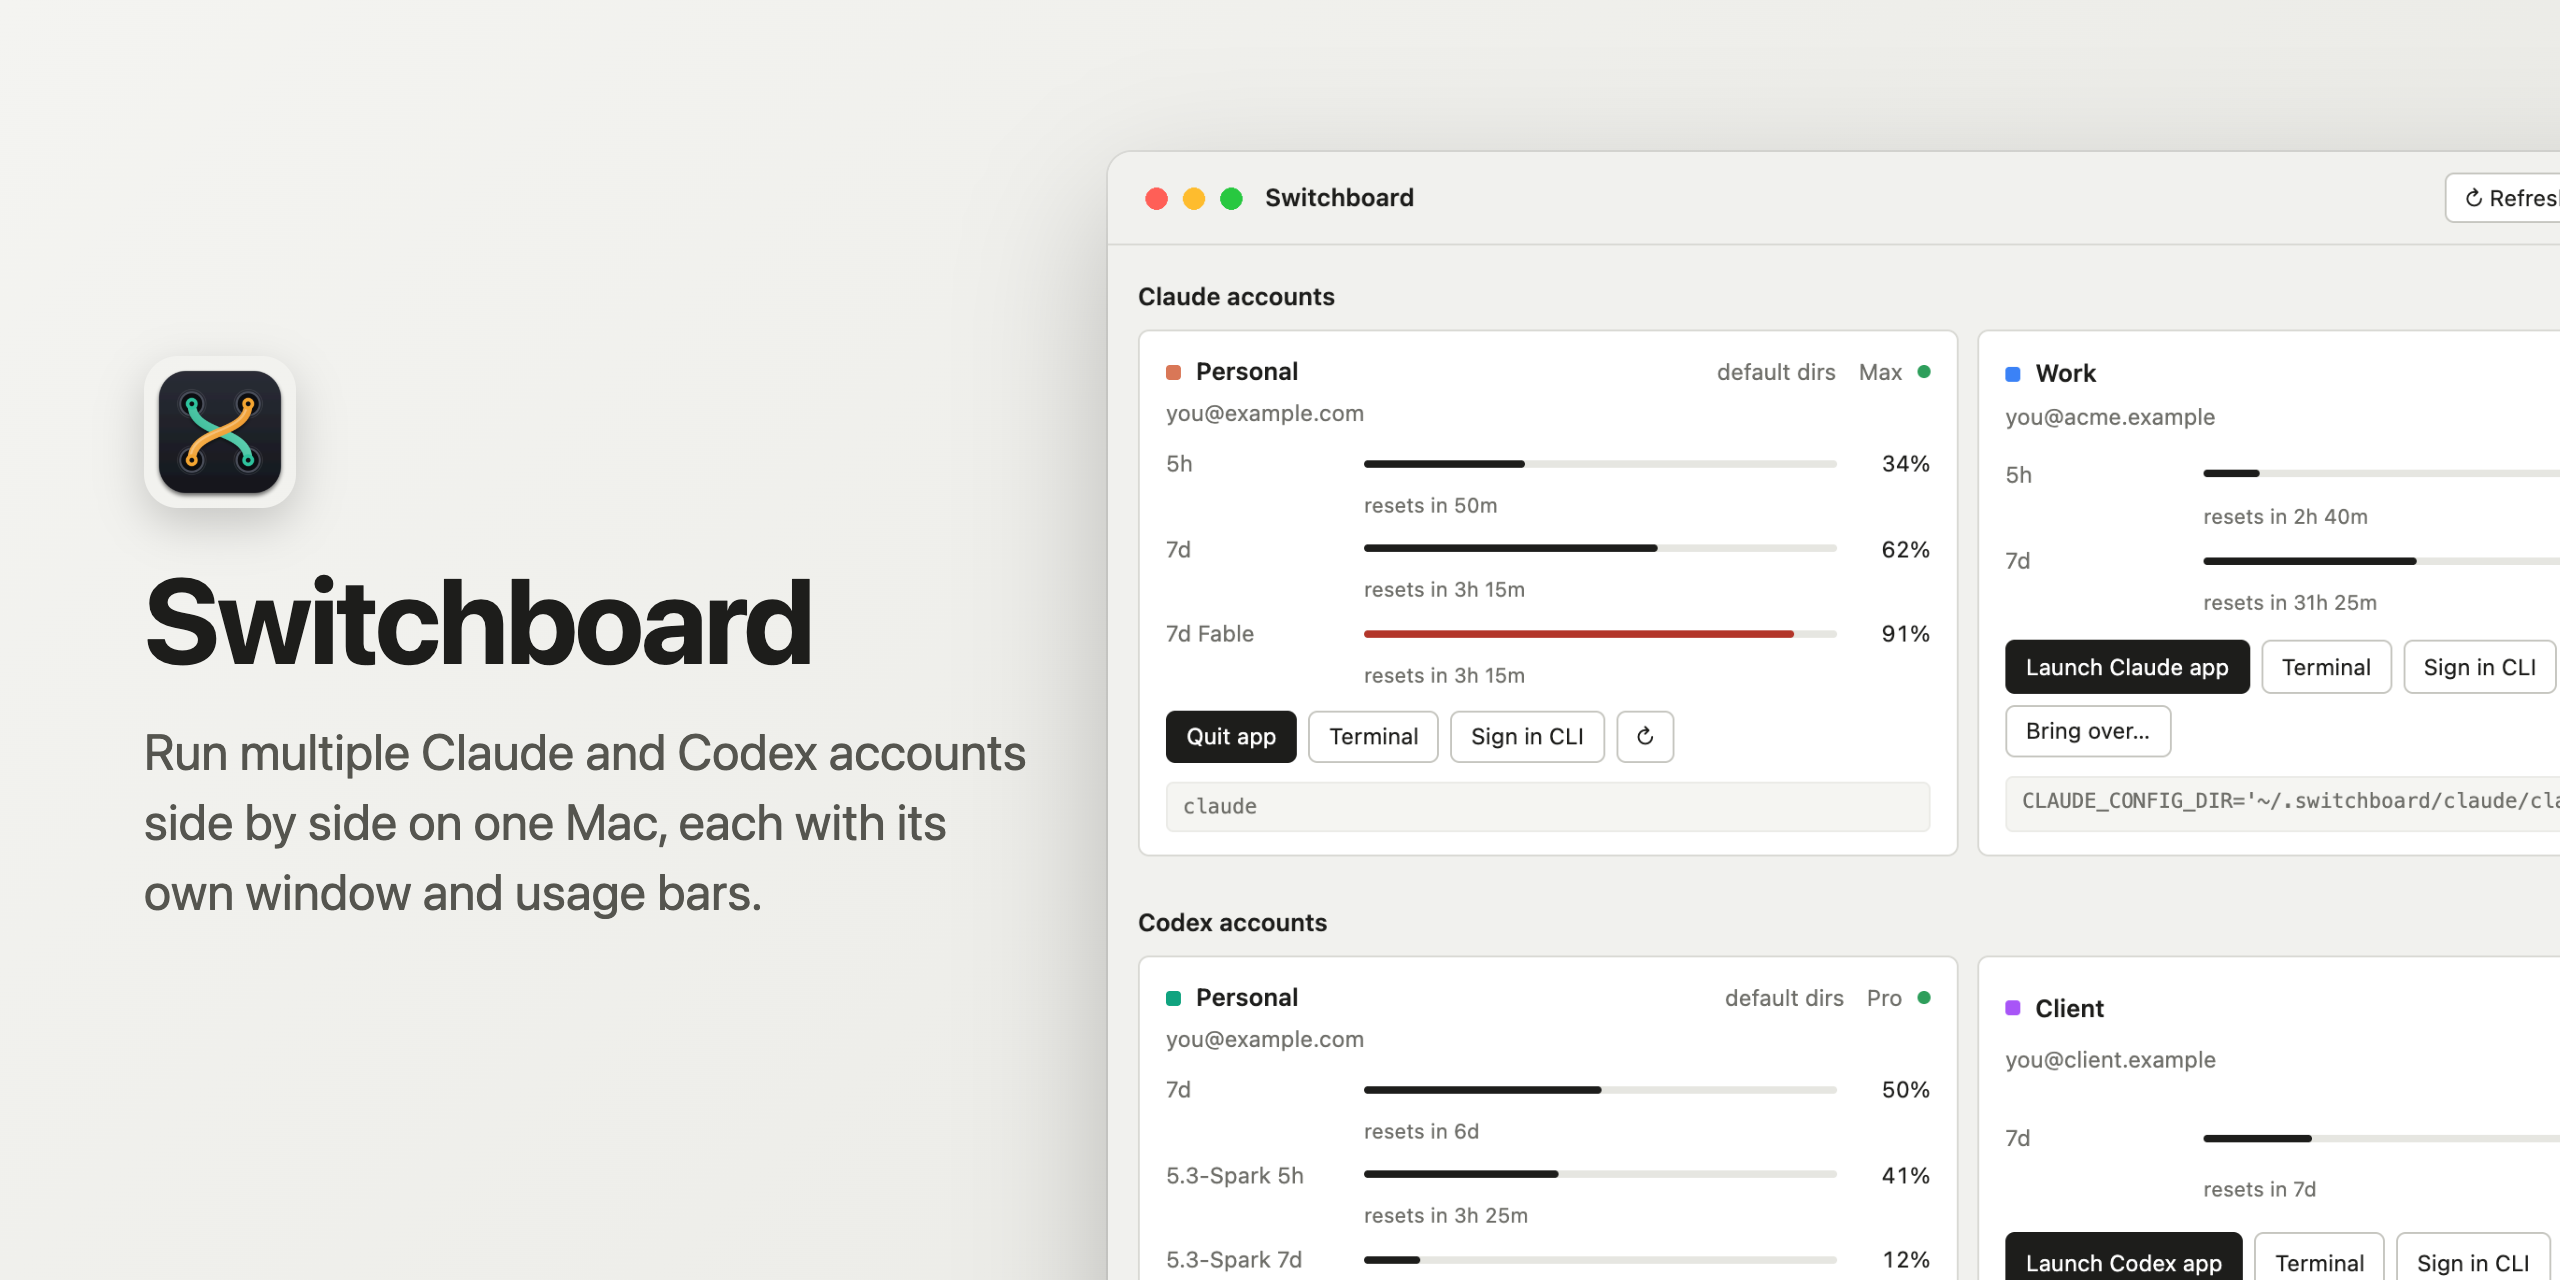
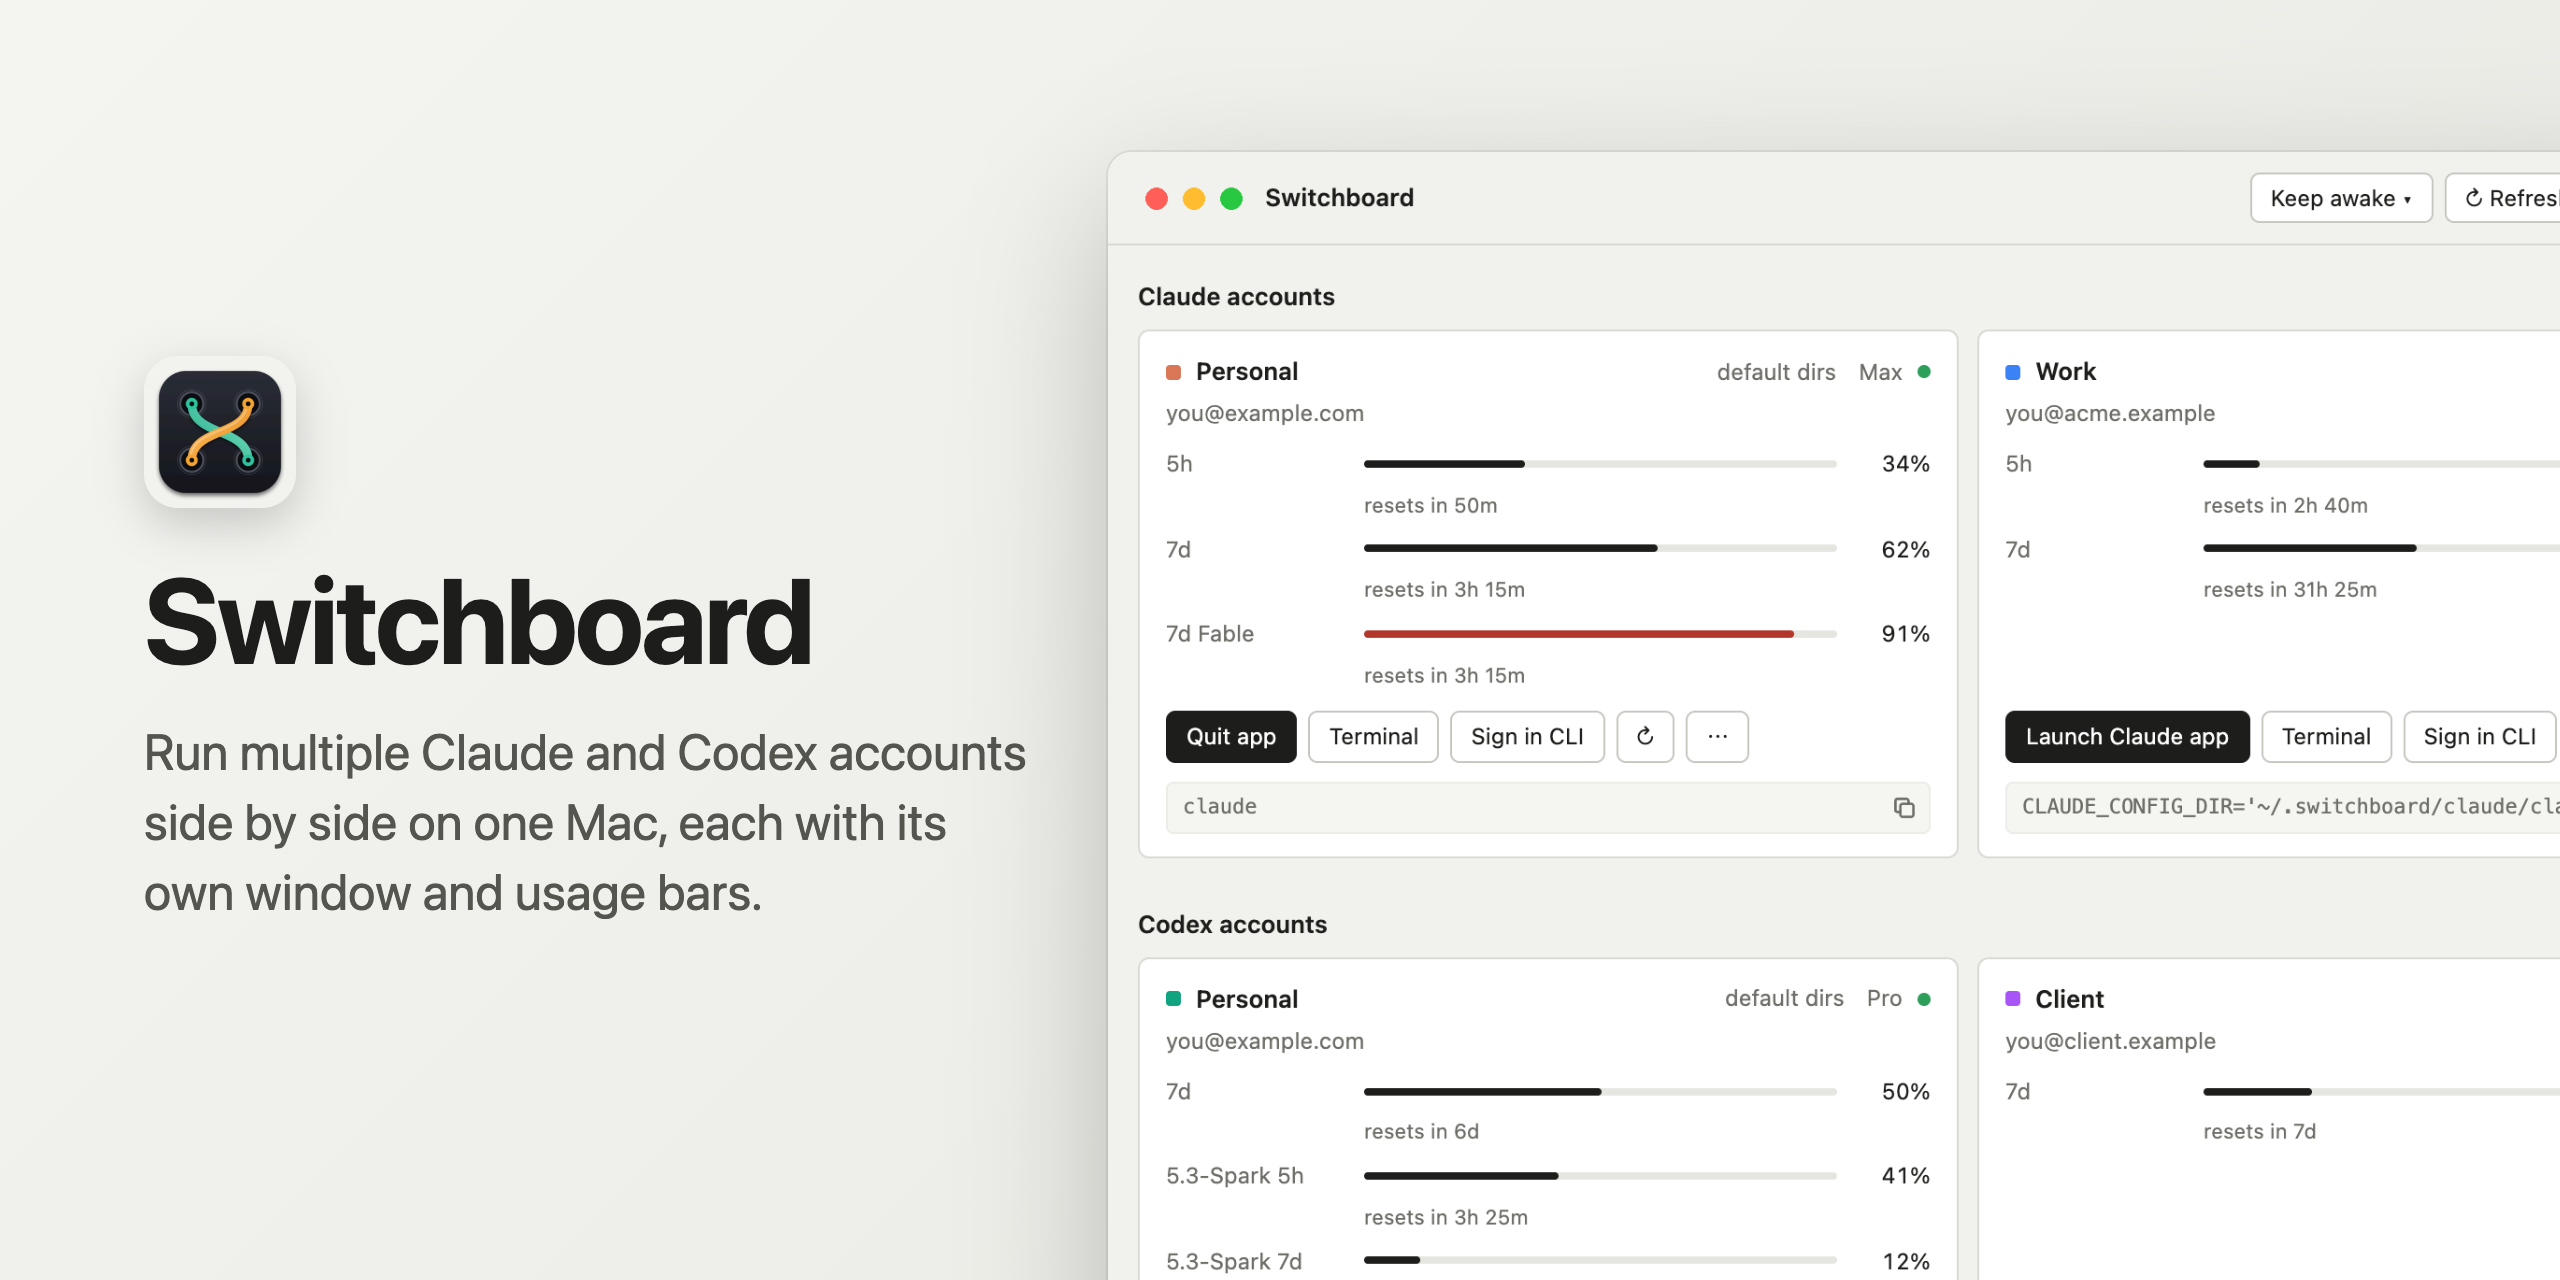
Compose usage and awake indicators after integration

diff --git a/src/main.ts b/src/main.ts
@@ -18,6 +18,7 @@ import * as launch from './launch';
 import * as usage from './usage';
 import { AwakeController, isAwakeValue, macAwakeSystem } from './awake';
 import { barPng, meterPng, stripPng } from './trayart';
+import { composeTrayText, type TrayText } from './tray-status';
 import type {
   AddOptions,
   BringOptions,
@@ -344,15 +345,14 @@ function busiestProfile(): { p: Profile; s: Live } | null {
   return best;
 }
 
-function refreshTrayIcon(): void {
-  if (!tray) return;
+function refreshTrayIcon(): TrayText {
+  const fallback = { title: '', tooltip: 'Switchboard' };
+  if (!tray) return fallback;
   const b = busiestProfile();
   const windows = b?.s.usage?.windows ?? [];
   if (!b || !windows.length) {
     tray.setImage(nativeImage.createFromPath(path.join(__dirname, '..', 'build', 'trayTemplate.png')));
-    tray.setTitle('');
-    tray.setToolTip('Switchboard');
-    return;
+    return fallback;
   }
   const stale = !!b.s.usage?.stale;
   const lanes = windows.slice(0, 2).map((w) => ({ fill: laneFill(w) }));
@@ -360,8 +360,10 @@ function refreshTrayIcon(): void {
   const fullest = windows.reduce((a, w) => ((w.pct ?? 0) > (a.pct ?? 0) ? w : a), windows[0]);
   const remaining = data.settings.usageMode === 'remaining';
   const shown = remaining ? 100 - (fullest.pct ?? 0) : (fullest.pct ?? 0);
-  tray.setTitle(data.settings.menuBar === 'percent' ? ` ${shown}%` : '');
-  tray.setToolTip(`${b.p.name}: ${usageLine(b.p)}`);
+  return {
+    title: data.settings.menuBar === 'percent' ? ` ${shown}%` : '',
+    tooltip: `${b.p.name}: ${usageLine(b.p)}`,
+  };
 }
 
 function usageLine(p: Profile): string {
@@ -379,13 +381,14 @@ function usageLine(p: Profile): string {
 
 function rebuildTray(): void {
   if (!tray) return;
-  refreshTrayIcon();
+  const usageText = refreshTrayIcon();
   const remaining = data.settings.usageMode === 'remaining';
   const items: Electron.MenuItemConstructorOptions[] = [];
   const awakeState = awake.snapshot();
   const isAwake = awakeState.status === 'ready' && awakeState.value === 'on';
-  tray.setTitle(isAwake ? ' ☀' : awakeState.status === 'unavailable' ? ' !' : '');
-  tray.setToolTip(isAwake ? 'Switchboard · Keep awake is on' : 'Switchboard');
+  const text = composeTrayText(usageText, awakeState);
+  tray.setTitle(text.title);
+  tray.setToolTip(text.tooltip);
   items.push({
     label:
       awakeState.status === 'changing' ? 'Changing sleep setting…' : isAwake ? 'Turn keep awake off' : 'Keep awake…',

diff --git a/test/tray-status.test.ts b/test/tray-status.test.ts
@@ -1,0 +1,26 @@
+import { expect, test } from 'bun:test';
+import { composeTrayText } from '../src/tray-status';
+
+test('usage and awake indicators coexist in the shared status item', () => {
+  const usage = { title: ' 43%', tooltip: 'Work: 7d 43%' };
+
+  expect(composeTrayText(usage, { status: 'ready', value: 'on', notice: null })).toEqual({
+    title: ' 43% ☀',
+    tooltip: 'Work: 7d 43% · Keep awake is on',
+  });
+  expect(composeTrayText(usage, { status: 'ready', value: 'off', notice: null })).toEqual(usage);
+  expect(composeTrayText(usage, { status: 'unavailable', lastKnown: 'on' })).toEqual({
+    title: ' 43% !',
+    tooltip: 'Work: 7d 43% · Sleep setting unavailable',
+  });
+  expect(composeTrayText(usage, { status: 'changing', target: 'on', lastKnown: 'off' }).title).toBe(' 43% …');
+});
+
+test('awake status remains visible when no account has usage data', () => {
+  expect(
+    composeTrayText({ title: '', tooltip: 'Switchboard' }, { status: 'ready', value: 'on', notice: null }),
+  ).toEqual({
+    title: ' ☀',
+    tooltip: 'Switchboard · Keep awake is on',
+  });
+});

diff --git a/src/tray-status.ts b/src/tray-status.ts
@@ -1,0 +1,34 @@
+import type { AwakeState } from './awake';
+
+export interface TrayText {
+  title: string;
+  tooltip: string;
+}
+
+// Usage and sleep state share one macOS status item. Compose once so a refresh
+// from either feature cannot erase the other feature's title or tooltip.
+export function composeTrayText(usage: TrayText, awake: AwakeState): TrayText {
+  let badge = '';
+  let description = '';
+
+  switch (awake.status) {
+    case 'checking':
+      break;
+    case 'ready':
+      if (awake.value === 'on') {
+        badge = ' ☀';
+        description = ' · Keep awake is on';
+      }
+      break;
+    case 'changing':
+      badge = ' …';
+      description = ' · Changing sleep setting';
+      break;
+    case 'unavailable':
+      badge = ' !';
+      description = ' · Sleep setting unavailable';
+      break;
+  }
+
+  return { title: usage.title + badge, tooltip: usage.tooltip + description };
+}
